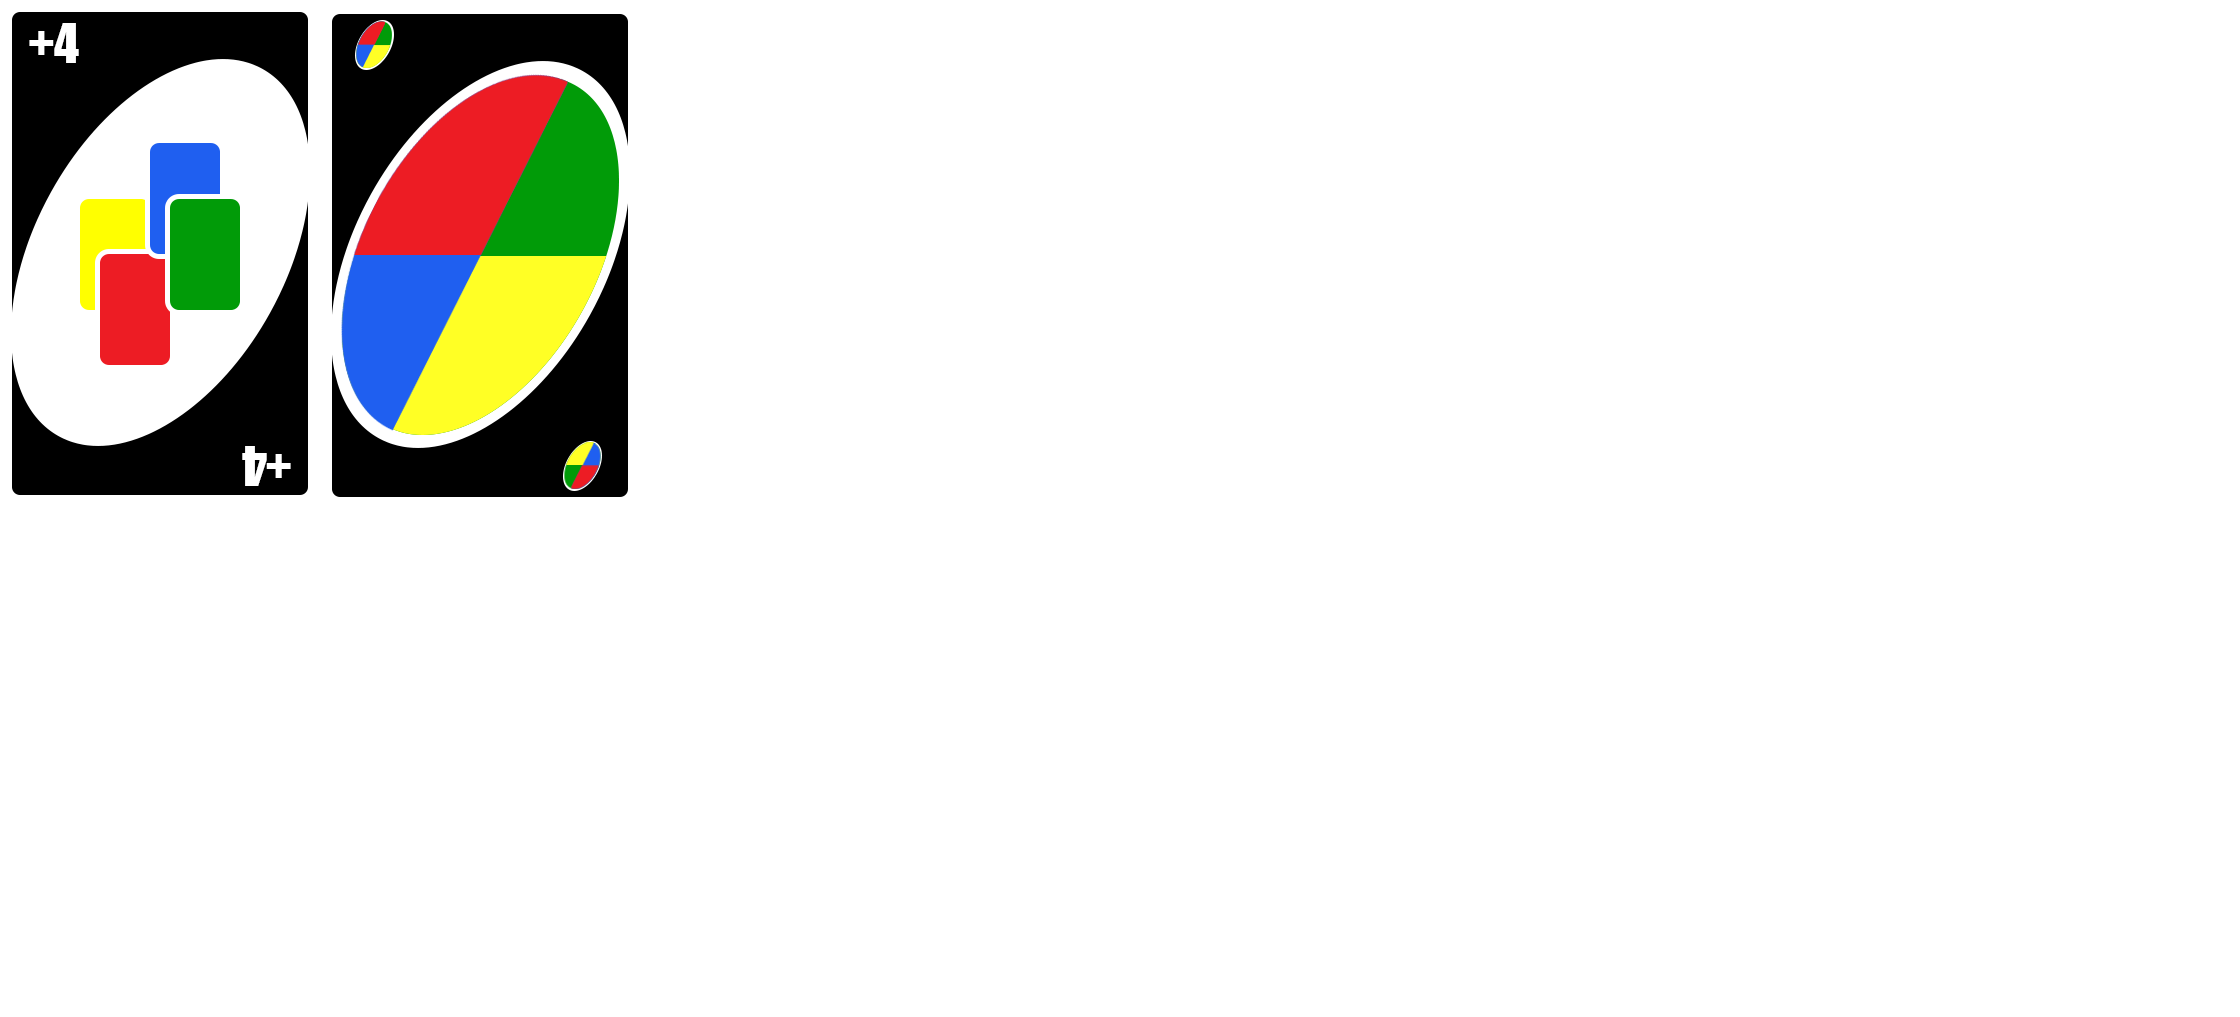
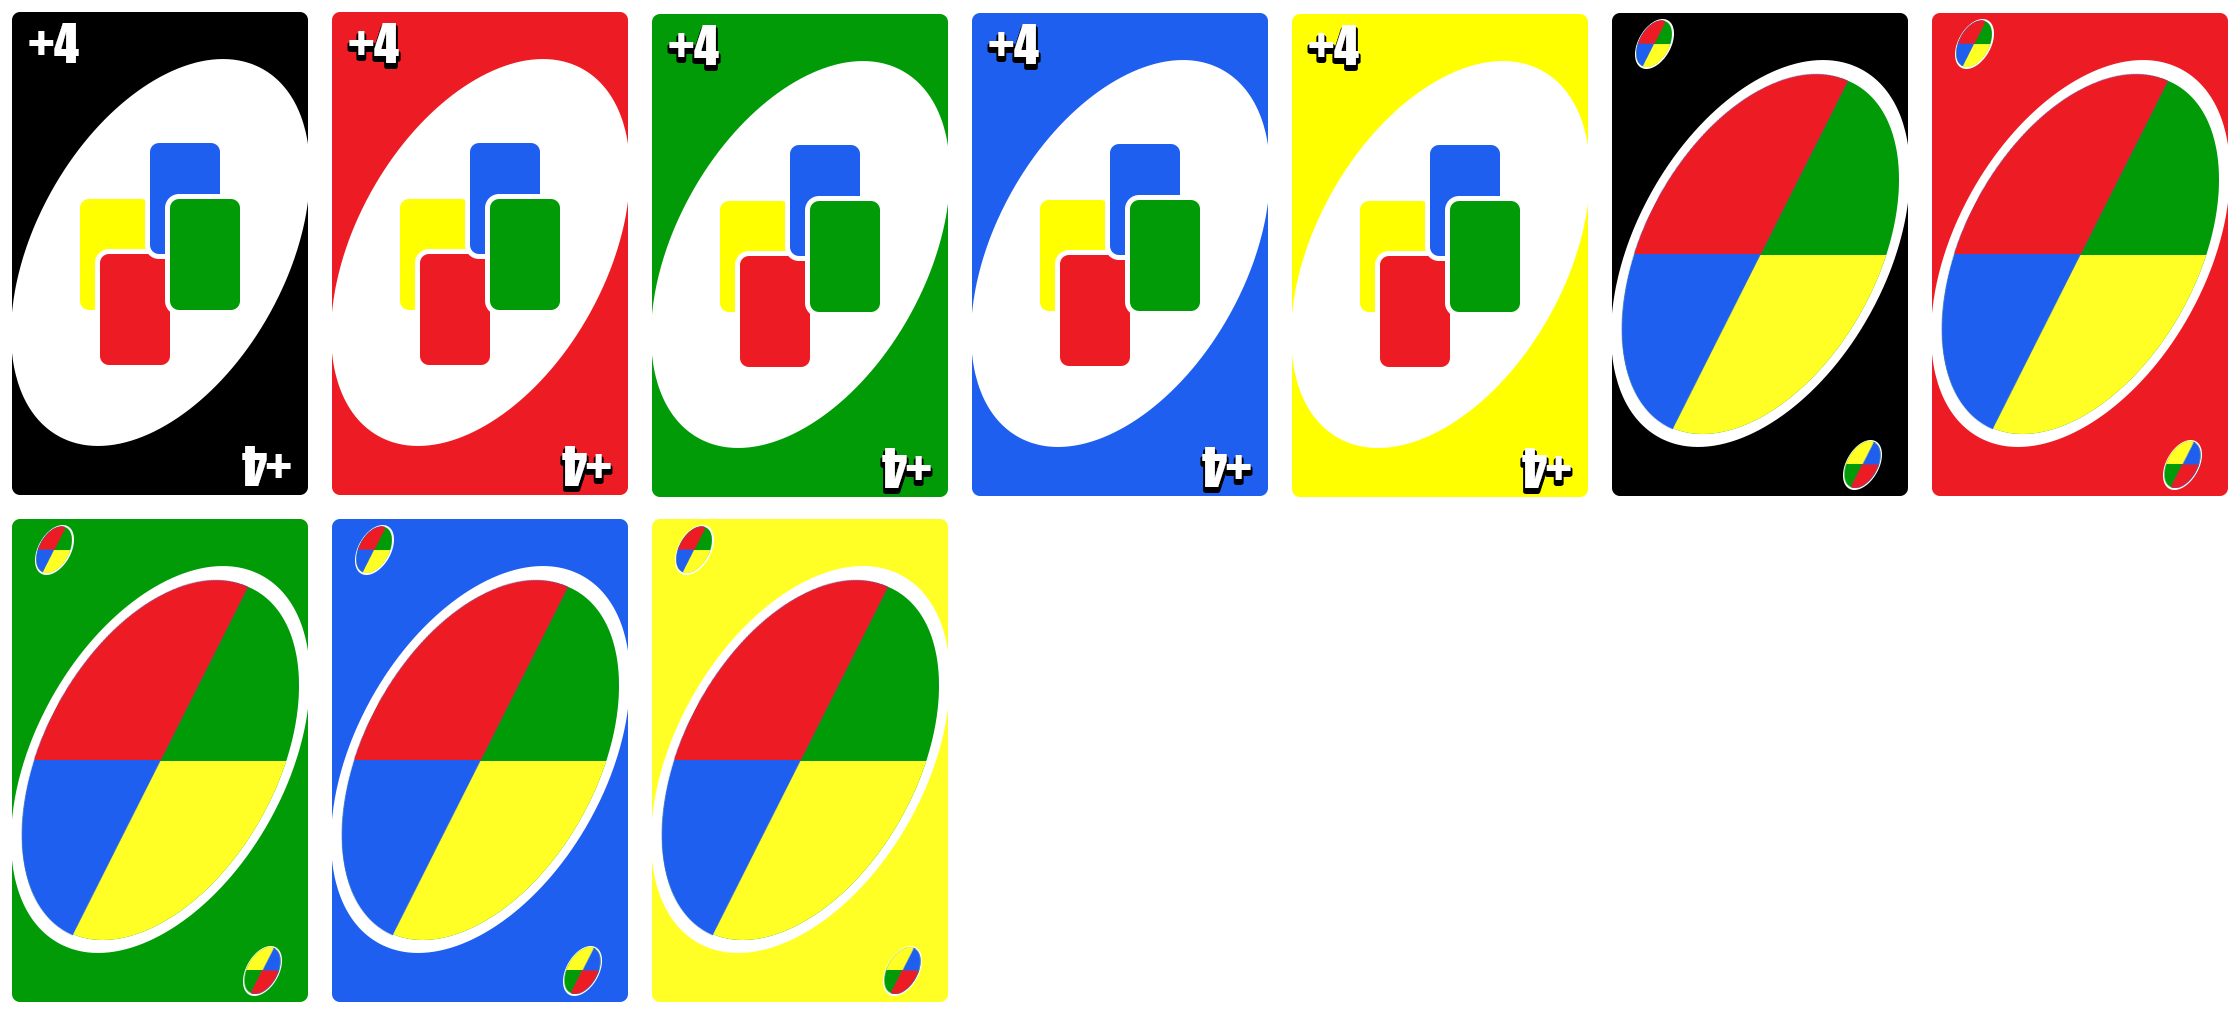
Pridana zmena farby pri ciernej karte

diff --git a/src/api/input/GameHandler.py b/src/api/input/GameHandler.py
@@ -1,3 +1,5 @@
+from api.hra.Farba import Farba
+from api.hra.Hodnota import Hodnota
 from api.util.Task import Task
 from gui.core.Anim import Anim
 from gui.core.AnimInfo import AnimInfo
@@ -12,40 +14,58 @@ class GameHandler(Handler):
 
     def event(self, event, typ, objekt):
         if typ == "<Button-1>":
+            #print("KLIK RAW")
             if self._program.obr[1].hra.hrac().tah:
+                #print("KLIK TAH vstup:", self.program.obr[1].hra.vstup, type(objekt))
                 if type(objekt) is Karta and self.program.obr[1].hra.vstup:
-                    self.program.obr[1].hra.vstup = False
+                    if self.program.obr[1].hra.vstup == 1:
+                        self.program.obr[1].hra.vstup = 0
+                        if objekt in self._program.obr[1].hra.hrac().ruka():
+                            if not Pravidla.moze_polozit(self._program.obr[1].hra.odhadzovaci().peek(), objekt):
+                                self.program.obr[1].hra.vstup = 1
+                                return
 
-                    print("KLIK")
-                    if objekt in self._program.obr[1].hra.hrac().ruka():
-                        if not Pravidla.moze_polozit(self._program.obr[1].hra.odhadzovaci().peek(), objekt):
-                            return
-
-                        kar = self._program.obr[1].hra.hrac().ruka().odstran_kartu(objekt)
-                        if kar is not None:
-                            self._program.obr[1].hra.odhadzovaci().pridaj_kartu(kar)
-                            self._canvas.tag_raise(kar.id)
-                            self._program.obr[1].otoc_kartu(kar, 0, True, True)
-                            anim = AnimInfo(None, kar, self._program.obr[1].odh_bal_poz, Anim.THROW, 10)
+                            kar = self._program.obr[1].hra.hrac().ruka().odstran_kartu(objekt)
+                            if kar is not None:
+                                if kar.farba.value != Farba.BLACK.value:
+                                    self._program.obr[1].hra.odhadzovaci().pridaj_kartu(kar)
+                                    self._canvas.tag_raise(kar.id)
+                                    self._program.obr[1].otoc_kartu(kar, 0, True, True)
+                                    anim = AnimInfo(None, kar, self._program.obr[1].odh_bal_poz, Anim.THROW, 10)
+                                    self._program.obr[1].pridaj_animaciu(anim)
+                                    self._program.scheduler.add_task(Task(Pravidla.vykonaj_akciu, [self._program.obr[1].hra, kar]), 2)
+                                    self._program.scheduler.add_task(Task(self._program.obr[1].uprac_ruku, [0]), 20)
+                                else:
+                                    self._canvas.tag_raise(kar.id)
+                                    self.program.obr[1].hra.vstup = 2
+                                    anim = AnimInfo(None, kar, self._program.obr[1].odh_bal_poz, Anim.THROW, 10)
+                                    self._program.obr[1].pridaj_animaciu(anim)
+                                    self._program.scheduler.add_task(Task(self._program.obr[1].canvas.delete, [kar.id]), 60)
+                                    self._program.scheduler.add_task(Task(self._program.obr[1].uprac_ruku, [0]), 20)
+                                    self._program.scheduler.add_task(Task(self._program.obr[1].zobraz_farby, [kar]), 40)
+                        else:
+                            kar = self._program.obr[1].hra.tahaci().vrchna()
+                            print("TAH -", kar)
+                            if kar is not None:
+                                self._program.obr[1].hra.hrac().ruka().pridaj_kartu(kar)
+                                anim = AnimInfo(0, kar, self._program.obr[1].hra.hrac().ruka().pozicia, Anim.PICK, 10)
+                                self._program.obr[1].pridaj_animaciu(anim)
+                                self._program.scheduler.add_task(Task(self._program.obr[1].obrat_kartu, [kar]), 30)
+                                self._program.scheduler.add_task(Task(self._program.obr[1].uprac_ruku, [0]), 90)
+                    elif self.program.obr[1].hra.vstup == 2:
+                        if (objekt.hodnota.value == Hodnota.PLUS4.value or objekt.hodnota.value == Hodnota.ZMENA.value) and objekt.farba.value != Farba.BLACK:
+                            self.program.obr[1].hra.vstup = 0
+                            self._program.obr[1].hra.odhadzovaci().pridaj_kartu(objekt)
+                            print("VYBRATA FARBA:", objekt.farba)
+                            anim = AnimInfo(None, objekt, self._program.obr[1].odh_bal_poz, Anim.THROW, 10)
                             self._program.obr[1].pridaj_animaciu(anim)
-                            self._program.scheduler.add_task(Task(Pravidla.vykonaj_akciu, [self._program.obr[1].hra, kar]), 2)
-                            self._program.scheduler.add_task(Task(self._program.obr[1].uprac_ruku, [0]), 20)
-                    else:
-                        kar = self._program.obr[1].hra.tahaci().vrchna()
-                        print("TAH -", kar)
-                        if kar is not None:
-                            self._program.obr[1].hra.hrac().ruka().pridaj_kartu(kar)
-                            anim = AnimInfo(0, kar, self._program.obr[1].hra.hrac().ruka().pozicia, Anim.PICK, 10)
-                            self._program.obr[1].pridaj_animaciu(anim)
-                            self._program.scheduler.add_task(Task(self._program.obr[1].obrat_kartu, [kar]), 30)
-                            self._program.scheduler.add_task(Task(self._program.obr[1].uprac_ruku, [0]), 90)
+                            self._program.scheduler.add_task(Task(Pravidla.vykonaj_akciu, [self._program.obr[1].hra, objekt]), 2)
+                            for ka in self.program.obr[1].farby:
+                                if ka != objekt:
+                                    self.program.obr[1].canvas.delete(ka.id)
 
-                    #self._canvas.delete(objekt.id)
-                    # self._program.obr[1].nastav_anim_karty(kar, self._program.obr[1].hra.odhadzovaci().peek())
-
-                    self._program.scheduler.add_task(Task(self._program.obr[1].hra.dalsi_hrac, []), 60)
-                # self._program.obr[1].ukonci_tah()
-                # self._program.obr[1].redraw()
+                    if not self.program.obr[1].hra.vstup:
+                        self._program.scheduler.add_task(Task(self._program.obr[1].hra.dalsi_hrac, []), 60)
 
     def ukonci_hru(self):
         self._program.zmen_obrazovku(2)

diff --git a/src/gui/textures/NacitavacTexturKariet.py b/src/gui/textures/NacitavacTexturKariet.py
@@ -25,7 +25,7 @@ class NacitavacTexturKariet:
         self._nacitavace[Farba.YELLOW] = NacitavacTextur(self._cesta + "yellow.png")
         self._raw[Farba.YELLOW] = self._nacitavace[Farba.YELLOW].strihaj_karty(7, 2)
         self._nacitavace[Farba.BLACK] = NacitavacTextur(self._cesta + "black.png")
-        self._raw[Farba.BLACK] = self._nacitavace[Farba.BLACK].strihaj_karty(2, 1)
+        self._raw[Farba.BLACK] = self._nacitavace[Farba.BLACK].strihaj_karty(7, 2)
         self._nacitavace[Farba.NONE] = NacitavacTextur(self._cesta + "back.png")
         self._raw[Farba.NONE] = self._nacitavace[Farba.NONE].strihaj_karty(1, 1)
 
@@ -33,8 +33,10 @@ class NacitavacTexturKariet:
             self._karty[farba] = dict()
             for hodnota in Hodnota:
                 if hodnota == Hodnota.PLUS4 or hodnota == Hodnota.ZMENA:
-                    continue
-                kar = self._raw[farba][hodnota.value]
+                    kar = self._raw[Farba.BLACK][hodnota.value+farba.value - 14]
+                else:
+                    kar = self._raw[farba][hodnota.value]
+
                 kar = kar.resize(res, Image.ANTIALIAS)
                 #self._karty[farba][hodnota] = ImageTk.PhotoImage(kar)
                 self._karty[farba][hodnota] = kar
@@ -45,7 +47,7 @@ class NacitavacTexturKariet:
         # self._karty[Farba.BLACK][Hodnota.ZMENA] = ImageTk.PhotoImage(self._raw[Farba.BLACK][1].resize(res, Image.ANTIALIAS))
         # self._karty[Farba.NONE][Hodnota.NONE] = ImageTk.PhotoImage(self._raw[Farba.NONE][0].resize(res, Image.ANTIALIAS))
         self._karty[Farba.BLACK][Hodnota.PLUS4] = self._raw[Farba.BLACK][0].resize(res, Image.ANTIALIAS)
-        self._karty[Farba.BLACK][Hodnota.ZMENA] = self._raw[Farba.BLACK][1].resize(res, Image.ANTIALIAS)
+        self._karty[Farba.BLACK][Hodnota.ZMENA] = self._raw[Farba.BLACK][5].resize(res, Image.ANTIALIAS)
         self._karty[Farba.NONE][Hodnota.NONE] = self._raw[Farba.NONE][0].resize(res, Image.ANTIALIAS)
 
     def karta(self, farba, hodnota):

diff --git a/src/gui/HernaObrazovka.py b/src/gui/HernaObrazovka.py
@@ -3,11 +3,10 @@ import random
 from PIL import ImageTk
 from PIL import Image
 
-from api.hra.Karta import Karta
+from src.api.hra.Karta import Karta
 from api.util.Task import Task
 from gui.core.Anim import Anim
 from gui.core.AnimInfo import AnimInfo
-from src.api.hra.AI import AI
 from src.api.hra.Farba import Farba
 from src.api.hra.Hodnota import Hodnota
 from src.api.hra.Hra import Hra
@@ -37,6 +36,7 @@ class HernaObrazovka(Obrazovka):
         self._hrac_poz_tah = [(400, 550), (750, 300), (400, 50), (50, 300)]
         self._koniec = False
         self._anim_list = []
+        self._farby = []
 
     def def_nastavenia(self):
         self._n = 0
@@ -238,3 +238,26 @@ class HernaObrazovka(Obrazovka):
         self._koniec = True
         self._canvas.delete("all")
         self._handler.ukonci_hru()
+
+    def zobraz_farby(self, karta):
+        p = [(0, -0.145), (0.3, 0), (0, 0.145), (-0.3, 0)]
+        v = []
+        for farba in Farba.RED, Farba.BLUE, Farba.GREEN, Farba.YELLOW:
+            img = self._ntk.karta(farba, karta.hodnota)
+            k = Karta(farba, karta.hodnota, cislo=len(v))
+            k.pozicia = self._odha_pos[0]+p[len(v)][0]*Karta.VELKOST_X, self._odha_pos[1]+p[len(v)][1]*Karta.VELKOST_Y
+            ca = ImageTk.PhotoImage(img)
+            k.id = self._canvas.create_image(k.pozicia, image=ca)
+            k.img = ca
+            self._handler.zaregistruj(k, "<Button-1>")
+            v.append(k)
+
+        self._farby = v
+
+    @property
+    def farby(self):
+        return self._farby
+
+    @farby.setter
+    def farby(self, farby):
+        self._farby = farby

diff --git a/src/api/hra/Pravidla.py b/src/api/hra/Pravidla.py
@@ -10,7 +10,7 @@ class Pravidla:
     def moze_polozit(ko, kd):
         #return ((ko.hodnota != Hodnota.PLUS4 and ko.hodnota != Hodnota.PLUS2 and ko.hodnota != Hodnota.ZMENA) and (ko.farba == kd.farba or ko.hodnota == kd.hodnota or ko.farba == Farba.BLACK or kd.farba == Farba.BLACK)) or (ko.hodnota == Hodnota.PLUS4 and kd.hodnota == Hodnota.PLUS4) or (ko.hodnota == Hodnota.PLUS2 and kd.hodnota == Hodnota.PLUS2)
 
-        return ko.farba == kd.farba or ko.hodnota == kd.hodnota or ko.farba == Farba.BLACK or kd.farba == Farba.BLACK
+        return ko.farba == kd.farba or ko.hodnota == kd.hodnota  or kd.farba == Farba.BLACK #or kd.farba == Farba.BLACK
 
     @staticmethod
     def vykonaj_akciu(hra, karta):

diff --git a/src/api/hra/Hra.py b/src/api/hra/Hra.py
@@ -14,7 +14,7 @@ class Hra:
         # napln karty
         self._tahaci = Stack(Karta.balicek())
         self._tahaci.miesat()
-        self._vstup = False
+        self._vstup = 0
         self._odhadzovaci = Stack()
         self._tah = None
         self._smer = 1
@@ -109,7 +109,7 @@ class Hra:
         if type(self._hraci[self._tah]) is AI:
             self._okno.handler.program.scheduler.add_task(Task(self.urob_ai_tah, []), 1*60+30)
         else:
-            self._vstup = True
+            self._vstup = 1
 
     def hrac_po_smere(self):
         return self._hraci[(self._tah + self._smer) % len(self._hraci)]

diff --git a/src/api/hra/AI.py b/src/api/hra/AI.py
@@ -46,9 +46,11 @@ class AI(Hrac):
             if karta.farba == Farba.BLACK:
                 #self._okno.canvas.delete(karta.id)
                 self._okno.handler.program.scheduler.add_task(Task(Pravidla.vykonaj_akciu, [self._hra, karta]), 2)
-                self._hra.odhadzovaci().pridaj_kartu(karta)
+
                 self._ruka.odstran_kartu(karta)
-                tt = True
+                ff = self._ruka.najviac_farba()
+                karta.farba = ff
+                self._hra.odhadzovaci().pridaj_kartu(karta)
                 return karta, True
 
         if odh_k.farba == Farba.BLACK:

diff --git a/src/api/hra/Ruka.py b/src/api/hra/Ruka.py
@@ -1,3 +1,4 @@
+from src.api.hra.Farba import Farba
 from src.api.hra.Stack import Stack
 
 
@@ -72,5 +73,13 @@ class Ruka(Stack):
             for i, karta in enumerate(self._karty):
                 karta.pozicia = self._poz_zac[0]+a[i], self._pozicia[1]
                 print("nova poz:", karta.pozicia)
+
+    def najviac_farba(self):
+        a = {Farba.RED:0, Farba.GREEN:0, Farba.BLUE:0, Farba.YELLOW:0}
+        for k in self._karty:
+            if k.farba in a.keys():
+                a[k.farba] += 1
+
+        return max(a, key=a.get)
 
     # TODO zoradenie

diff --git a/src/api/hra/Karta.py b/src/api/hra/Karta.py
@@ -18,6 +18,10 @@ class Karta(Objekt):
     def farba(self):
         return self._farba
 
+    @farba.setter
+    def farba(self, farba):
+        self._farba = farba
+
     @property
     def hodnota(self):
         return self._hodnota

diff --git a/src/api/hra/Hodnota.py b/src/api/hra/Hodnota.py
@@ -16,5 +16,8 @@ class Hodnota(Enum):
     SKIP = 10
     REV = 11
     PLUS2 = 12
-    PLUS4 = 13
-    ZMENA = 14
+    PLUS4 = 14
+    ZMENA = 19
+
+    # def __eq__(self, other):
+    #     return self.value == other.value

diff --git a/src/api/hra/Farba.py b/src/api/hra/Farba.py
@@ -8,3 +8,6 @@ class Farba(Enum):
     GREEN = 2
     BLUE = 3
     YELLOW = 4
+
+    # def __eq__(self, other):
+    #     return self.value == other.value
